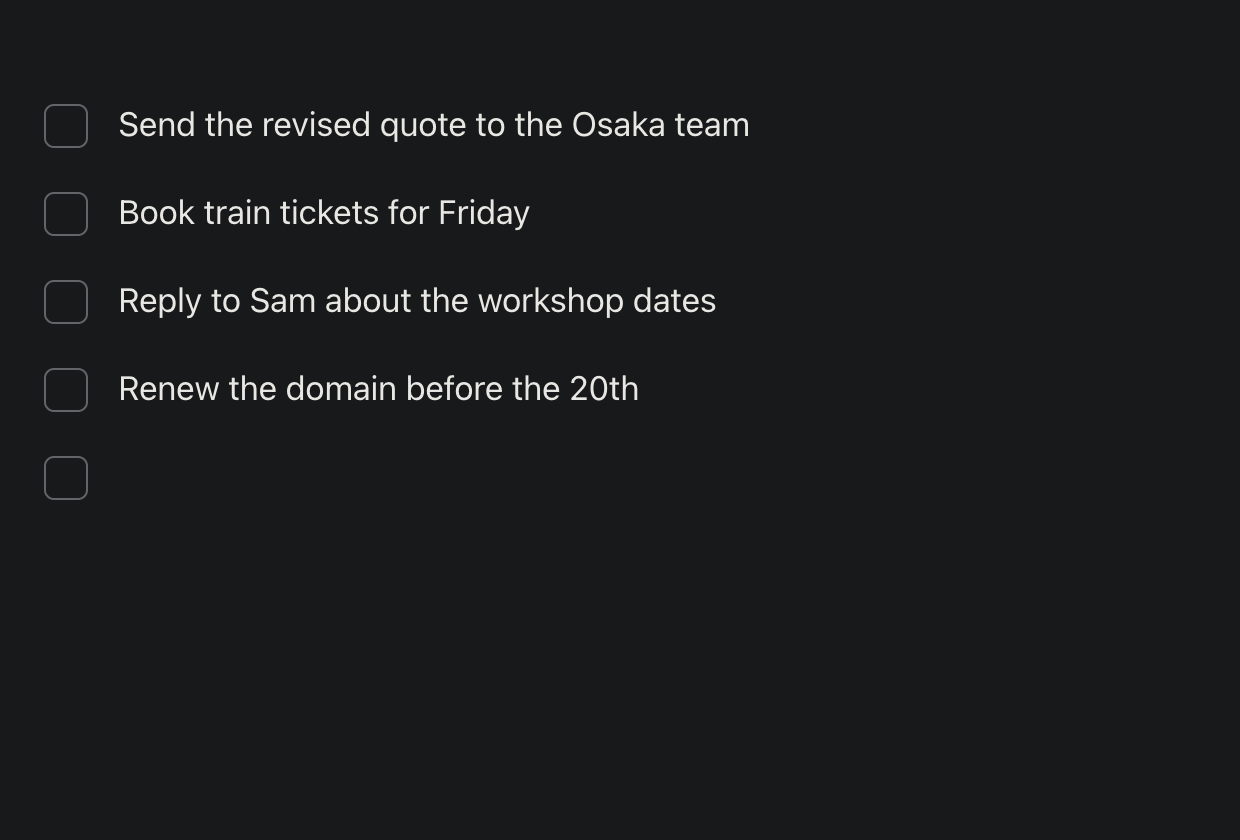
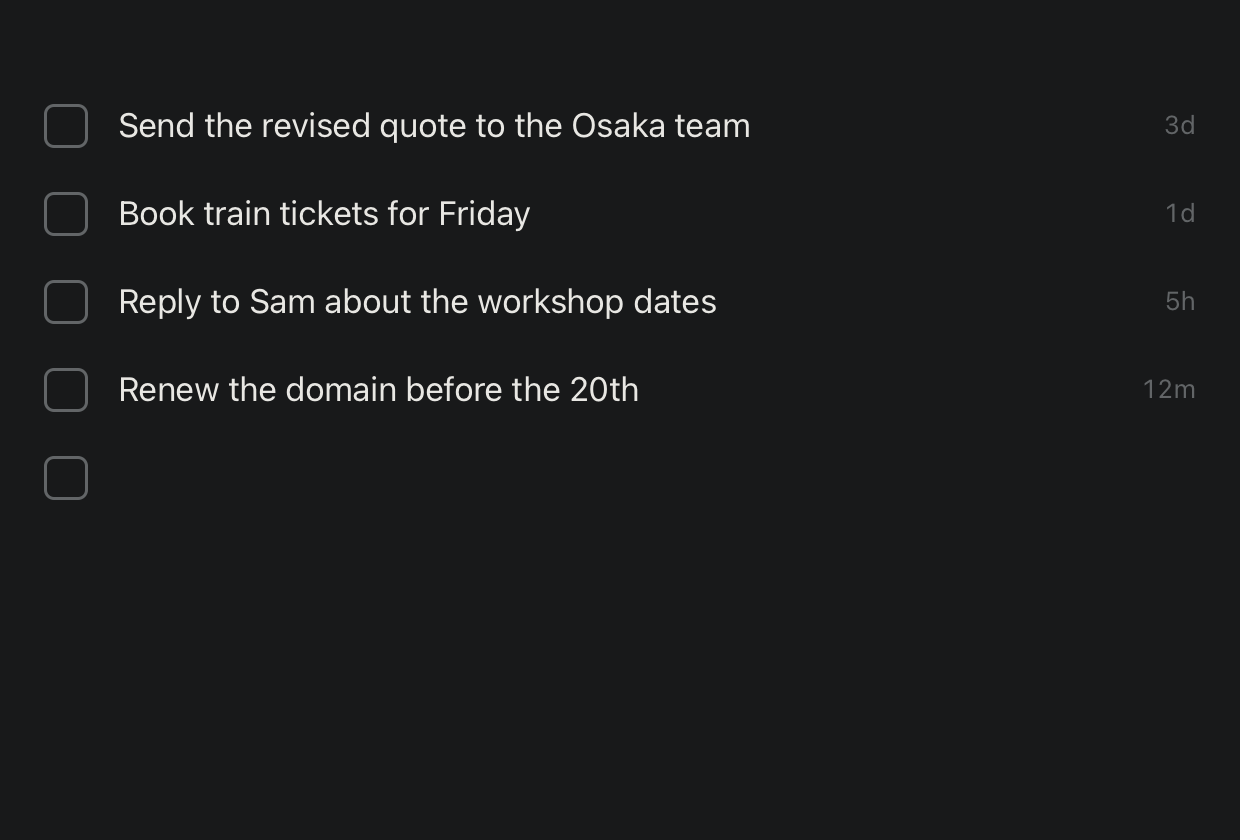
README: new screenshot with the age of each item

diff --git a/README.md b/README.md
@@ -9,7 +9,7 @@ A quiet desktop checklist for follow-ups. Type a line, press Enter, tick it off 
 
 Built with [Tauri 2](https://tauri.app) and Rust. Items are stored locally in SQLite. There is no account, no sync, and no network access.
 
-![Focus Zen with four open follow-ups](docs/screenshot.png)
+![Focus Zen with four open follow-ups, each with its age: 3d, 1d, 5h and 12m](docs/screenshot.png)
 
 ## Download
 
